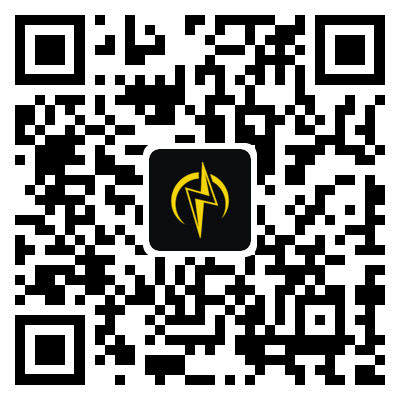
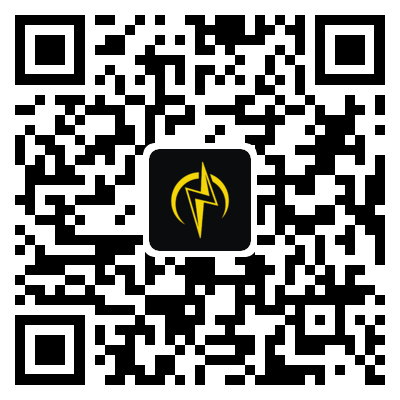
智信ip更改

Changed region(s): [[0.03, 0.03, 0.96, 0.96], [0.24, 0.87, 0.39, 0.96]]

diff --git a/www/config/config.js b/www/config/config.js
@@ -1,7 +1,7 @@
 var gTheme = 'light'; // 主题色 light/dark
 
 var loginExpireCheckEnable = false;       // 是否检查鉴权过期
-var defaultPlatIpAddr = 'http://47.96.0.119'; // 平台默认ip，格式为：http://118.190.51.135
+var defaultPlatIpAddr = 'http://47.116.135.5'; // 平台默认ip，格式为：http://118.190.51.135
 var defaultImgThumbHost = "";     // 如果为空则与 host一样
 var defaultIpcHost = null; // 摄像头服务地址。为空则与host一样
 var gQrDownloadUrl = '/version/qr.png'; // 二维码下载链接
